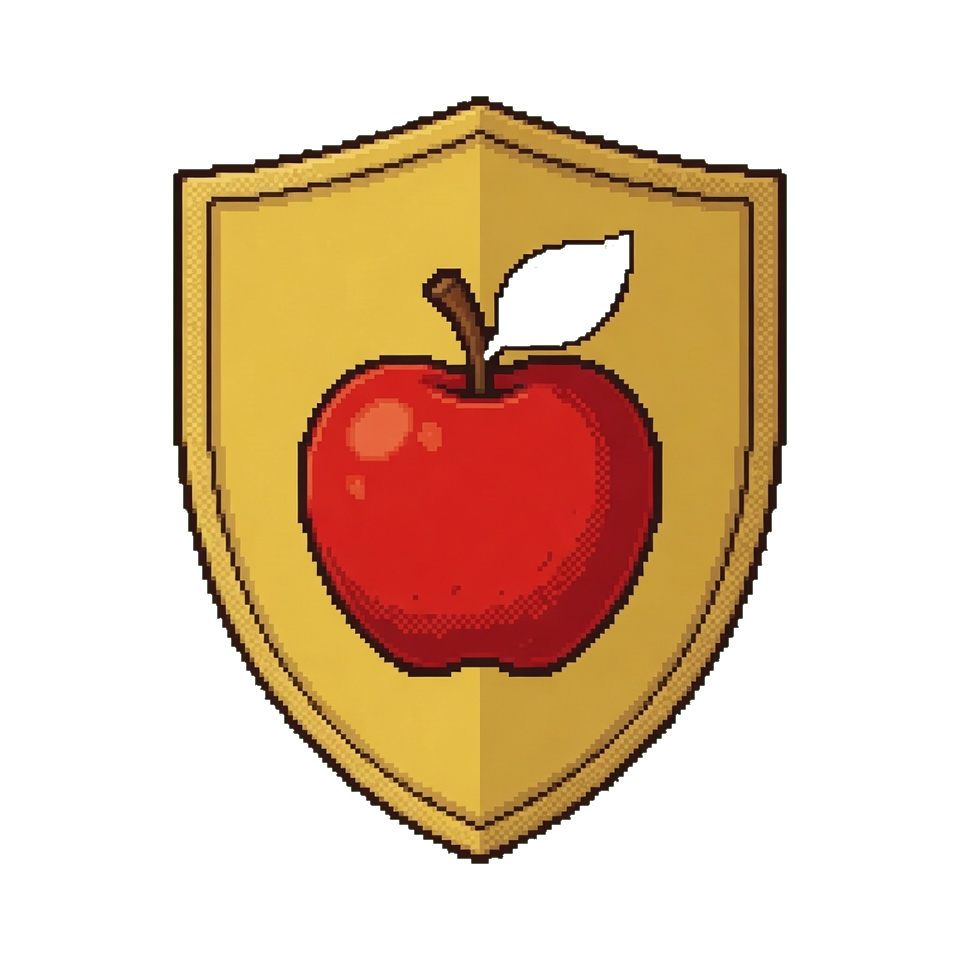
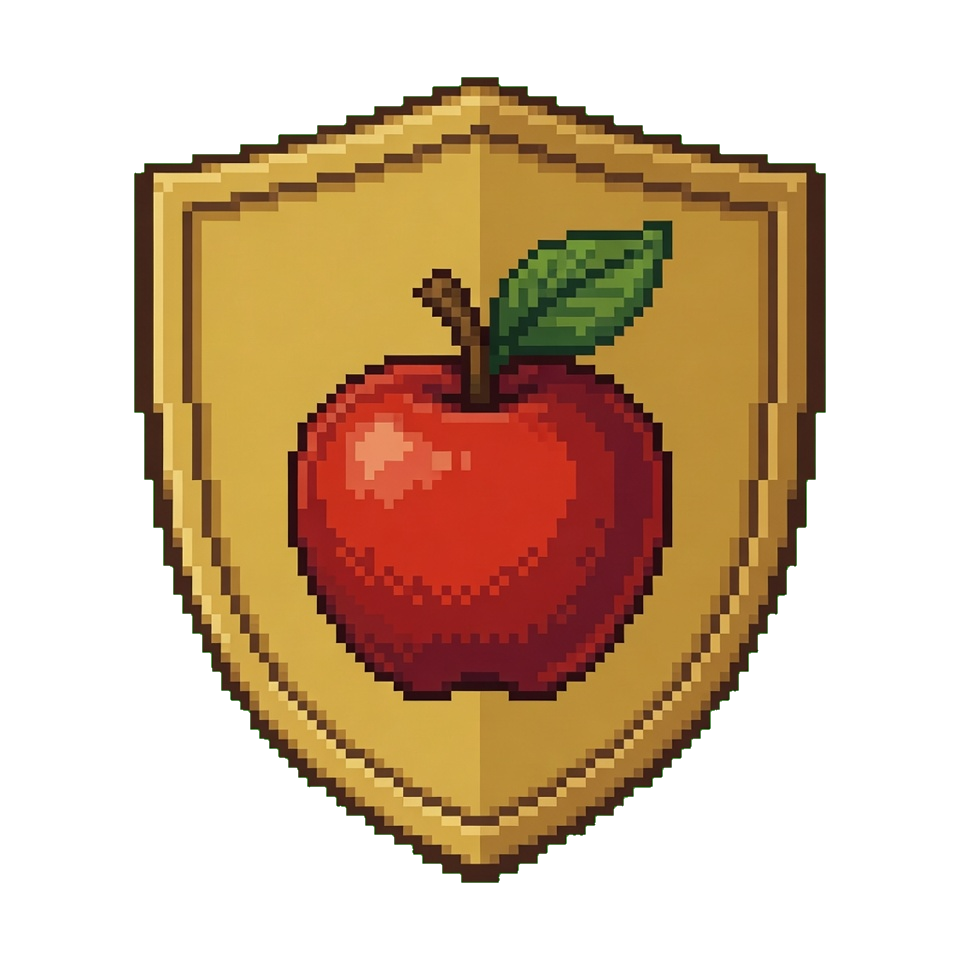
TKW: populate `uller`, `blackmont`, `morrigen`, `trant` from AWOIAF
- `uller.md`: `seat: hellholt`, `liege: martell`, sigil + founding era, `heads`/`titles`/`notable-members`, 3-paragraph body
- `blackmont.md`: `seat: blackmont`, `liege: martell`, sigil, founding pre-700 BC, info arrays, 2-paragraph body
- `morrigen.md`: new stormlands house under Storm's End, black crow on storm-green, `seat: crows-nest`, no recorded words, info arrays, 3-paragraph body covering Last Storm through Golden Company
- `trant.md`: new stormlands minor house, black hanged man on blue, words *So End Our Foes*, `seat: gallowsgrey`, Ser Meryn in `notable-members`, 2-paragraph body
- refresh `public/sigils/fossoway-cider-hall.png`

Changed region(s): [[0.125, 0.0625, 0.875, 0.9375]]

diff --git a/content/houses/morrigen.md b/content/houses/morrigen.md
@@ -1,0 +1,43 @@
+---
+slug: morrigen
+name: House Morrigen
+seat: crows-nest
+liege: baratheon
+words: ""
+sigil:
+  description: A black crow in flight on a storm-green field
+founded:
+  year: -2000
+  era: andal-invasion
+  precision: era
+status: extant
+sworn-from: []
+cadet-houses: []
+region: stormlands
+heads:
+  - name: "Lord Lester Morrigen"
+titles:
+  - name: Lord of Crow's Nest
+notable-members:
+  - name: "Ser Richard Morrigen"
+    note: brother to Lord Lester and his heir at Crow's Nest
+  - name: "Ser Guyard Morrigen"
+    note: youngest brother of Lord Lester, called Guyard the Green, of Renly's Rainbow Guard; slain at the Battle of the Blackwater by Ser Garlan Tyrell wearing Renly's armour
+  - name: "Ser Damon Morrigen"
+    note: called Damon the Devout, Grand Captain of the Warrior's Sons; challenged Maegor I to a trial of seven and died at the king's hand
+  - name: "Ser Gyles Morrigen"
+    note: nephew to Damon the Devout; slew Ser Harrold Langward of Maegor's Kingsguard in a trial by combat and was named Lord Commander of the Kingsguard by Jaehaerys I
+  - name: "Dickon Morrigen"
+    note: shared the van of King Argilac Durrandon with the Bastard of Blackhaven at the Last Storm; both were killed by Queen Rhaenys and Meraxes
+sources:
+  - type: awoiaf
+    url: https://awoiaf.westeros.org/index.php/House_Morrigen
+    license: CC-BY-SA-3.0
+draft: false
+---
+
+House Morrigen of Crow's Nest is a lordly house of the stormlands, sworn since time out of mind to the Storm Kings at Storm's End and after them to the Baratheons. They blazon their shields with a black crow in flight on a storm-green field; their words, if any were ever sworn, do not survive the books that the Citadel keeps. The Morrigens have ever been a martial line, and the histories first set them at the head of an army at the Last Storm, where Dickon Morrigen and the Bastard of Blackhaven shared the van of King Argilac Durrandon and were both burned out of their saddles by Queen Rhaenys and her dragon Meraxes.
+
+What followed bound the house to the Targaryens by blood and fire alike. In the reign of Maegor the Cruel, Ser Damon the Devout commanded the Warrior's Sons out of King's Landing and challenged the king to a trial of seven; Maegor won by a hand's breadth, and Damon died on the floor of the sept. After Maegor's death, Damon's young nephew Ser Gyles came to court bearing the family's loyalty in his own hands, slew Ser Harrold Langward of Maegor's Kingsguard in a trial by combat, and was raised to Lord Commander of King Jaehaerys's Kingsguard for his pains. A later Morrigen, Ser Grance, was remembered chiefly for riding at the great tourney at Ashford Meadow, and in the years before Robert's Rebellion the Lord of Crow's Nest fell into a quiet border quarrel with Lord Armond Connington that drew Prince Rhaegar's ear.
+
+By the events of _A Clash of Kings_ the house is held by Lord Lester Morrigen, with his brothers Ser Richard, his heir, and Ser Guyard, called Guyard the Green, who rode in Renly Baratheon's Rainbow Guard. When Renly was murdered, Crow's Nest bent to King Stannis; Guyard led the van of his foot at the Battle of the Blackwater, and was cut down by Ser Garlan Tyrell wearing the dead king's armour. Lord Lester held to Stannis after the river, and is thought to have ridden north with him; in his absence Crow's Nest itself was taken by Ser Tristan Rivers and the Golden Company.

diff --git a/content/houses/uller.md b/content/houses/uller.md
@@ -1,19 +1,37 @@
 ---
 slug: uller
 name: House Uller
-seat: ""
-liege: null
+seat: hellholt
+liege: martell
 words: ""
 sigil:
-  description: ""
+  description: A field of yellow over crimson, divided by a rayonny line of rising flame
 founded:
-  year: 0
-  era: age-of-heroes
-  precision: legendary
+  year: -2000
+  era: andal-invasion
+  precision: era
 status: extant
 sworn-from: []
 cadet-houses: []
 region: dorne
-sources: []
+heads:
+  - name: "Lord Harmen Uller"
+titles:
+  - name: Lord of Hellholt
+notable-members:
+  - name: "Ser Ulwyck Uller"
+    note: brother to Lord Harmen and one of the Dornish lords who rode to King's Landing with Prince Oberyn Martell
+  - name: "Ellaria Sand"
+    note: Lord Harmen's natural daughter, longtime paramour of Prince Oberyn Martell and mother of four of the Sand Snakes
+sources:
+  - type: awoiaf
+    url: https://awoiaf.westeros.org/index.php/House_Uller
+    license: CC-BY-SA-3.0
 draft: false
 ---
+
+House Uller of the Hellholt holds a stark keep in the deep Dornish desert, raised by Andal adventurers who came over the Red Mountains in the days of the Coming of the Andals and settled along the smoking waters of the Brimstone. The castle takes its name from an old crime: a feud-ridden lord once bid his rivals to a feast within the walls, barred the doors, and burned them where they sat. From that fire the Ullers blazoned their arms, a field of yellow over crimson divided by a rayonny line of rising flame, and from that fire the saying spread across Dorne that half the Ullers are half-mad and the other half are worse.
+
+In Nymeria's War the Ullers cast their lot with the Martells against the old Yronwood power, and when the war was won Lord Uller stood briefly as the aged second husband of the warrior queen herself, between her first husband and Ser Davos Dayne. They held to Dorne as fiercely under the dragons. In the First Dornish War Lord Uthor Uller emptied the Hellholt and led Lord Harlan Tyrell's army into the sands, where the Reachmen vanished; not long after, Queen Rhaenys Targaryen and her dragon Meraxes both fell in the courtyard of the castle, and rumour said the queen lived long enough to be tortured by her hosts. During the Dragon's Wroth that followed, four consecutive Lords of the Hellholt were murdered for the price the Iron Throne set upon their heads, and still the keep did not bend.
+
+By the time of _A Game of Thrones_ the house is held by Lord Harmen Uller, who came to King's Landing in the train of Prince Oberyn Martell with his brother Ser Ulwyck and his natural daughter Ellaria Sand, Oberyn's paramour and the mother of four of the Sand Snakes. When Arianne Martell schemes to crown Myrcella Baratheon at the Hellholt itself, she counts the Ullers among her likeliest swords; later, locked in her tower at Sunspear, she weighs sending for Lord Harmen and rules it too dangerous a thing to do.

diff --git a/content/houses/blackmont.md b/content/houses/blackmont.md
@@ -1,19 +1,38 @@
 ---
 slug: blackmont
 name: House Blackmont
-seat: ""
-liege: null
+seat: blackmont
+liege: martell
 words: ""
 sigil:
-  description: ""
+  description: A black vulture clutching a pink infant in its claws on a yellow field
 founded:
-  year: 0
-  era: age-of-heroes
-  precision: legendary
+  year: -700
+  era: andal-invasion
+  precision: era
 status: extant
 sworn-from: []
 cadet-houses: []
 region: dorne
-sources: []
+heads:
+  - name: "Lady Larra Blackmont"
+titles:
+  - name: Lady of Blackmont
+  - name: King (historical)
+notable-members:
+  - name: "Jynessa Blackmont"
+    note: daughter and heir of Lady Larra, fostered with Prince Oberyn's company at the Water Gardens
+  - name: "Perros Blackmont"
+    note: younger son of Lady Larra, a squire who rode with his mother to King's Landing in the Red Viper's train
+  - name: "King Benedict Blackmont"
+    note: the last Vulture King of Blackmont, defeated by Nymeria in her war and one of the six kings she sent to take the black
+sources:
+  - type: awoiaf
+    url: https://awoiaf.westeros.org/index.php/House_Blackmont
+    license: CC-BY-SA-3.0
 draft: false
 ---
+
+House Blackmont of Blackmont holds a sun-baked seat on the banks of the Torentine where the river cuts down out of the Red Mountains, and from that height they have warred against the marcher lords of the Stormlands for longer than the Citadel can well reckon. In the years before the Rhoynar came the Blackmonts wore crowns of their own; their last king, Benedict, was broken in Nymeria's War and sent to take the black at the Wall among the six kings the warrior queen chose to humble rather than to kill. They had also marched with House Yronwood against the upstart Martells, and lost twice over.
+
+Their blazon they have kept since: a black vulture stooping with a pink infant in its claws on a field of yellow, a device so grim that even the heralds at King's Landing remember it. By the time of _A Game of Thrones_ the house is led by Lady Larra Blackmont, who came to the capital in Prince Oberyn Martell's train with her daughter Jynessa, heir to Blackmont, and her young son Perros at her side; her other children were among the favourite hostages kept under Prince Doran's eye at the Water Gardens of Sunspear.

diff --git a/content/houses/trant.md b/content/houses/trant.md
@@ -1,0 +1,31 @@
+---
+slug: trant
+name: House Trant
+seat: gallowsgrey
+liege: baratheon
+words: "So End Our Foes"
+sigil:
+  description: A black hanged man on a blue field
+founded:
+  year: -2000
+  era: andal-invasion
+  precision: era
+status: extant
+sworn-from: []
+cadet-houses: []
+region: stormlands
+titles:
+  - name: Lord of Gallowsgrey
+notable-members:
+  - name: "Ser Meryn Trant"
+    note: a sworn brother of King Robert I Baratheon's Kingsguard; sent by Lord Tywin to seize Arya Stark, where he fought her dancing master Syrio Forel, and afterwards beat Sansa Stark at King Joffrey's pleasure
+sources:
+  - type: awoiaf
+    url: https://awoiaf.westeros.org/index.php/House_Trant
+    license: CC-BY-SA-3.0
+draft: false
+---
+
+House Trant of Gallowsgrey is a lesser stormland house sworn to Storm's End, of so little renown that the Citadel cannot now name its current lord. Their arms are a black hanged man on a blue field, with the motto _So End Our Foes_ set beneath; a grim device, much of a piece with the small grim seat the house keeps in the marches. A century before Robert's Rebellion the badge was already known among the gathered heraldry of the south: at the wedding tourney at Whitewalls in 212 AC, the hedge knight Ser Duncan the Tall rode under a borrowed shield bearing a hanged man, almost certainly a Trant blazon left unaltered by its last owner, and styled himself the Gallows Knight for those few passes.
+
+By the time of _A Game of Thrones_ the only Trant who walks the page is Ser Meryn, sworn of the white cloak under King Robert and after him a creature of the Lannisters. He rode north in the king's escort to Winterfell, was sent to take Arya Stark from the Red Keep and there crossed swords with her water-dancing master Syrio Forel; thereafter, at King Joffrey's pleasure, it was Ser Meryn who laid the rod across Sansa Stark in open court. The lordship of Gallowsgrey passes on quietly through other hands while he serves his king.
